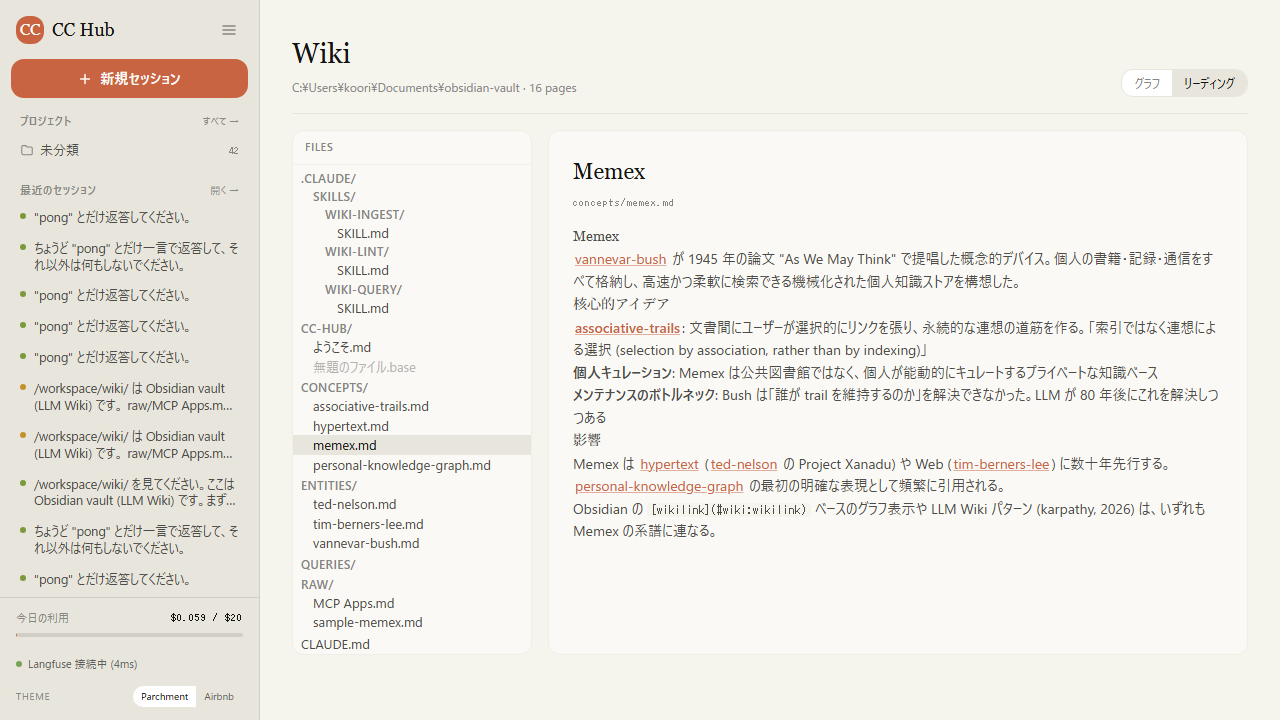
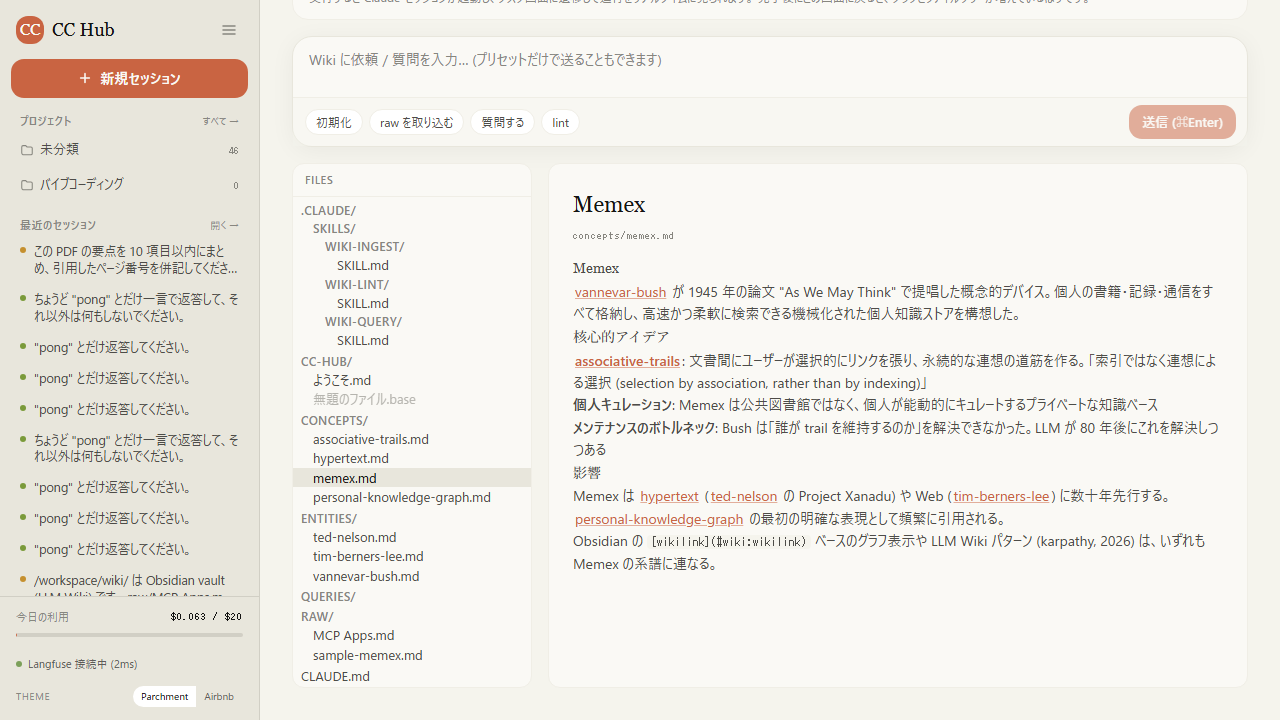
Wiki page: help panel + preset composer for init/ingest/query/lint
Adds two UX elements to /wiki so Obsidian vault operations are
discoverable without memorizing prompts:

- WikiHelp (collapsible banner) explains the 4-step workflow
  (drop source → init → ingest raw → query/lint) inline.
  Collapsed state persists in localStorage.

- WikiComposer is a rounded-[20px] textarea with 4 preset pill
  buttons mapped to the underlying skills:
    初期化        → seeds CLAUDE.md/index.md/log.md when empty
    raw を取り込む → wiki-ingest for every un-indexed file under raw/
    質問する      → wiki-query with the user's text appended
    lint          → wiki-lint report into log.md
  The free-text textarea sends a plain prompt via ⌘Enter. All paths
  create a session, POST /claude/start, and navigate to /tasks/:id so
  the user can watch the skill run using the Claude.ai-style chat
  just landed in the previous commit.

E2E (wiki.spec.ts) picks up a new test asserting the help copy and
all four preset buttons are reachable. Preset labels are stable so
future rename needs to update the test too.

diff --git a/apps/web/src/components/wiki-composer.tsx b/apps/web/src/components/wiki-composer.tsx
@@ -1,0 +1,130 @@
+'use client';
+import { useState } from 'react';
+import { useRouter } from 'next/navigation';
+import { api, withTimeout } from '@/lib/api';
+import { Button } from '@/components/ui/button';
+
+const DEFAULT_PROJECT_ID = '00000000-0000-0000-0000-000000000100';
+
+interface Props {
+  disabled?: boolean;
+}
+
+const PRESETS: Array<{ label: string; title: string; prompt: string }> = [
+  {
+    label: '初期化',
+    title: '空の vault に CLAUDE.md / index.md / log.md / skills を書き出す',
+    prompt:
+      '/workspace/wiki/ を見てください。空 vault なら .claude/skills/wiki-ingest (もしあれば wiki-init) を参照しつつ CLAUDE.md / index.md / log.md / concepts/ / entities/ / queries/ の骨組みを作ってください。既にあればスキップしてください。',
+  },
+  {
+    label: 'raw を取り込む',
+    title: 'raw/ の未 ingest ファイルを wiki-ingest で一括取り込み',
+    prompt:
+      '/workspace/wiki/CLAUDE.md を読んで運用ルールを把握した上で、.claude/skills/wiki-ingest/SKILL.md に従い raw/ 以下で index.md に未登録のファイルを順に ingest してください。各 source につき concepts/ または entities/ を書き、index.md と log.md を更新してください。',
+  },
+  {
+    label: '質問する',
+    title: 'index を参照して citation 付き回答、価値ある答えは queries/ に保存',
+    prompt:
+      '/workspace/wiki/CLAUDE.md を読んだ上で、.claude/skills/wiki-query/SKILL.md に従って次の質問に答えてください: ',
+  },
+  {
+    label: 'lint',
+    title: 'broken link / orphan / 矛盾をレポート',
+    prompt:
+      '/workspace/wiki/ に対して .claude/skills/wiki-lint/SKILL.md の手順で lint を実行してください。レポートを log.md に追記してください。',
+  },
+];
+
+export function WikiComposer({ disabled }: Props) {
+  const router = useRouter();
+  const [text, setText] = useState('');
+  const [busy, setBusy] = useState(false);
+  const [error, setError] = useState<string | null>(null);
+
+  const submit = async (payload: string) => {
+    setError(null);
+    setBusy(true);
+    try {
+      const created = await api<{ sessionId: string; taskId: string }>('/api/sessions', {
+        method: 'POST',
+        body: JSON.stringify({
+          profileId: 'default',
+          prompt: payload,
+          projectId: DEFAULT_PROJECT_ID,
+        }),
+      });
+      await withTimeout(
+        api(`/api/sessions/${created.sessionId}/claude/start`, {
+          method: 'POST',
+          body: JSON.stringify({}),
+        }),
+        120_000,
+        'Claude 起動',
+      );
+      router.push(`/tasks/${created.taskId}`);
+    } catch (err) {
+      setError((err as Error).message);
+      setBusy(false);
+    }
+  };
+
+  const sendFree = () => {
+    const t = text.trim();
+    if (!t) return;
+    void submit(t);
+  };
+
+  const sendPreset = (preset: (typeof PRESETS)[number]) => {
+    if (preset.label === '質問する') {
+      const q = text.trim() || '(Wiki の大枠を要約してください)';
+      void submit(preset.prompt + q);
+    } else {
+      void submit(preset.prompt);
+    }
+  };
+
+  return (
+    <div className="rounded-[20px] border border-border-warm bg-ivory shadow-whisper theme-airbnb-composer">
+      <textarea
+        rows={2}
+        disabled={disabled || busy}
+        className="block w-full resize-none border-0 bg-transparent px-4 pt-3 pb-1 font-sans text-[14px] leading-[1.55] text-near placeholder:text-stone focus:outline-none"
+        placeholder="Wiki に依頼 / 質問を入力… (プリセットだけで送ることもできます)"
+        value={text}
+        onChange={(e) => setText(e.target.value)}
+        onKeyDown={(e) => {
+          if ((e.metaKey || e.ctrlKey) && e.key === 'Enter') {
+            e.preventDefault();
+            sendFree();
+          }
+        }}
+      />
+      <div className="flex flex-wrap items-center justify-between gap-2 border-t border-border-cream bg-parchment/40 px-3 py-2">
+        <div className="flex flex-wrap items-center gap-1.5">
+          {PRESETS.map((p) => (
+            <button
+              key={p.label}
+              type="button"
+              title={p.title}
+              disabled={disabled || busy}
+              onClick={() => sendPreset(p)}
+              className="rounded-full border border-border-cream bg-white px-2.5 py-[3px] font-sans text-[12px] text-charcoal transition hover:bg-sand disabled:opacity-50"
+            >
+              {p.label}
+            </button>
+          ))}
+        </div>
+        <Button size="sm" onClick={sendFree} disabled={disabled || busy || !text.trim()}>
+          {busy ? '送信中…' : '送信 (⌘Enter)'}
+        </Button>
+      </div>
+      {error && (
+        <div className="border-t border-[#e0a9a9] bg-[#fbeaea] px-3 py-2 font-sans text-[12px] text-error-crimson">
+          {error}
+        </div>
+      )}
+    </div>
+  );
+}

diff --git a/apps/web/src/components/wiki-help.tsx b/apps/web/src/components/wiki-help.tsx
@@ -1,0 +1,84 @@
+'use client';
+import { useEffect, useState } from 'react';
+
+const STORAGE_KEY = 'cc-hub-wiki-help-open';
+
+export function WikiHelp() {
+  const [open, setOpen] = useState<boolean | null>(null);
+
+  useEffect(() => {
+    try {
+      const v = localStorage.getItem(STORAGE_KEY);
+      setOpen(v === null ? true : v === '1');
+    } catch {
+      setOpen(true);
+    }
+  }, []);
+
+  const toggle = () => {
+    const next = !open;
+    setOpen(next);
+    try {
+      localStorage.setItem(STORAGE_KEY, next ? '1' : '0');
+    } catch {
+      // noop
+    }
+  };
+
+  if (open === null) return null;
+
+  return (
+    <div className="rounded-[16px] border border-border-cream bg-ivory">
+      <button
+        type="button"
+        onClick={toggle}
+        className="flex w-full items-center justify-between gap-2 px-4 py-2.5 text-left"
+        aria-expanded={open}
+      >
+        <span className="font-sans text-[13px] font-medium text-near">
+          Wiki の使い方
+        </span>
+        <span className="font-sans text-[11px] text-stone">{open ? '隠す ▾' : '開く ▸'}</span>
+      </button>
+      {open && (
+        <div className="space-y-3 border-t border-border-cream px-4 py-3 font-sans text-[13px] leading-[1.6] text-charcoal">
+          <p>
+            ここは <b>Obsidian vault</b> を直接 bind-mount した LLM Wiki です。vault は同じ
+            フォルダを Obsidian アプリでも開けるので、Wiki 側の編集と手動編集が共存します。
+          </p>
+          <div className="grid gap-2 md:grid-cols-2">
+            <Step
+              title="1. Source を置く"
+              body="Obsidian Web Clipper で記事を clip すると raw/ にファイルが増えます。手動で raw/*.md を置いてもOK。"
+            />
+            <Step
+              title="2. 初期化 (初回のみ)"
+              body="空 vault なら下の「初期化」ボタンで CLAUDE.md / index.md / log.md / skills をシードします。既に入っていればスキップ。"
+            />
+            <Step
+              title="3. raw を取り込む"
+              body="「raw を取り込む」で wiki-ingest skill を起動。Claude が要点抽出 → concepts/ entities/ に structured page を書き、index と log を更新します。"
+            />
+            <Step
+              title="4. 質問・lint"
+              body="「質問する」で index から citation 付き回答。「lint」で broken link / orphan / 矛盾をレポート。"
+            />
+          </div>
+          <p className="text-[12px] text-stone">
+            実行すると Claude セッションが起動し、タスク画面に遷移して進行をリアルタイムに見られます。
+            完了後にこの画面に戻ると、グラフとファイルツリーが増えているはずです。
+          </p>
+        </div>
+      )}
+    </div>
+  );
+}
+
+function Step({ title, body }: { title: string; body: string }) {
+  return (
+    <div className="rounded-[12px] border border-border-cream bg-parchment/40 px-3 py-2">
+      <div className="font-sans text-[12px] font-medium text-near">{title}</div>
+      <div className="mt-1 font-sans text-[12px] text-olive leading-[1.55]">{body}</div>
+    </div>
+  );
+}

diff --git a/apps/web/src/app/wiki/page.tsx b/apps/web/src/app/wiki/page.tsx
@@ -6,6 +6,8 @@ import { api } from '@/lib/api';
 import { WikiGraph, type GraphNode, type GraphLink } from '@/components/wiki-graph';
 import { WikiMarkdown } from '@/components/wiki-markdown';
 import { WikiTree, type TreeEntry } from '@/components/wiki-tree';
+import { WikiHelp } from '@/components/wiki-help';
+import { WikiComposer } from '@/components/wiki-composer';
 
 type ViewMode = 'graph' | 'reading';
 
@@ -145,6 +147,10 @@ CC_HUB_VAULT_PATH=C:\Users\koori\Documents\ObsidianVault
           <div className="font-sans text-[13px] text-error-crimson">エラー: {error}</div>
         </Card>
       )}
+
+      <WikiHelp />
+
+      <WikiComposer />
 
       <div className="grid grid-cols-1 gap-4 lg:grid-cols-[240px_1fr]">
         <aside className="rounded-card border border-border-cream bg-ivory">

diff --git a/apps/web/e2e/wiki.spec.ts b/apps/web/e2e/wiki.spec.ts
@@ -22,6 +22,15 @@ test.describe('Wiki UI', () => {
     await expect(page.getByRole('button', { name: /^リーディング$/ })).toBeVisible();
   });
 
+  test('help panel + composer preset buttons are present', async ({ authedPage: page }) => {
+    await page.goto('/wiki');
+    await expect(page.getByText(/Wiki の使い方/)).toBeVisible({ timeout: 10_000 });
+    await expect(page.getByPlaceholder(/Wiki に依頼/)).toBeVisible();
+    for (const label of ['初期化', 'raw を取り込む', '質問する', 'lint']) {
+      await expect(page.getByRole('button', { name: label })).toBeVisible();
+    }
+  });
+
   test('sidebar has Wiki nav entry', async ({ authedPage: page }) => {
     await page.goto('/');
     const wikiLink = page.getByRole('link', { name: /^Wiki$/ });
